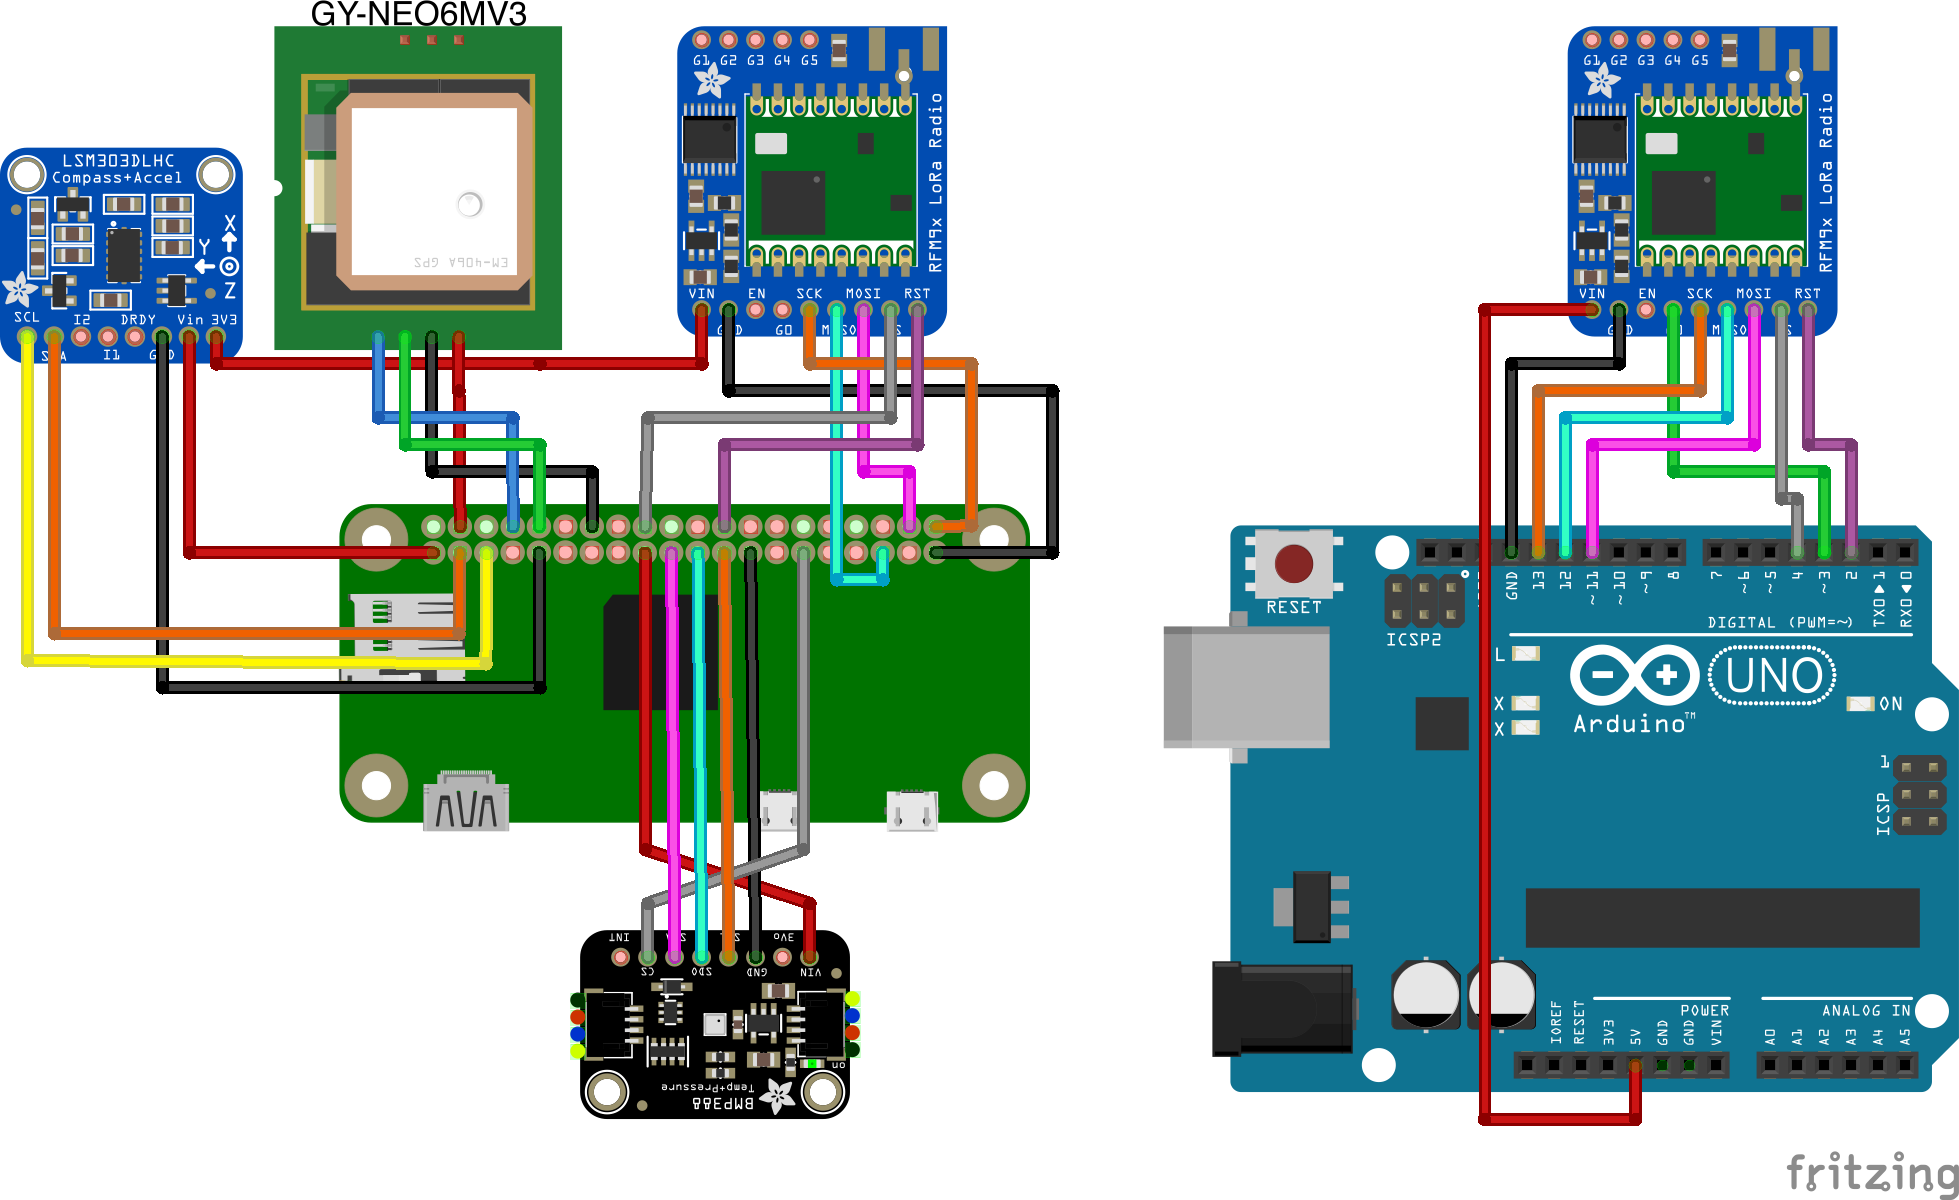
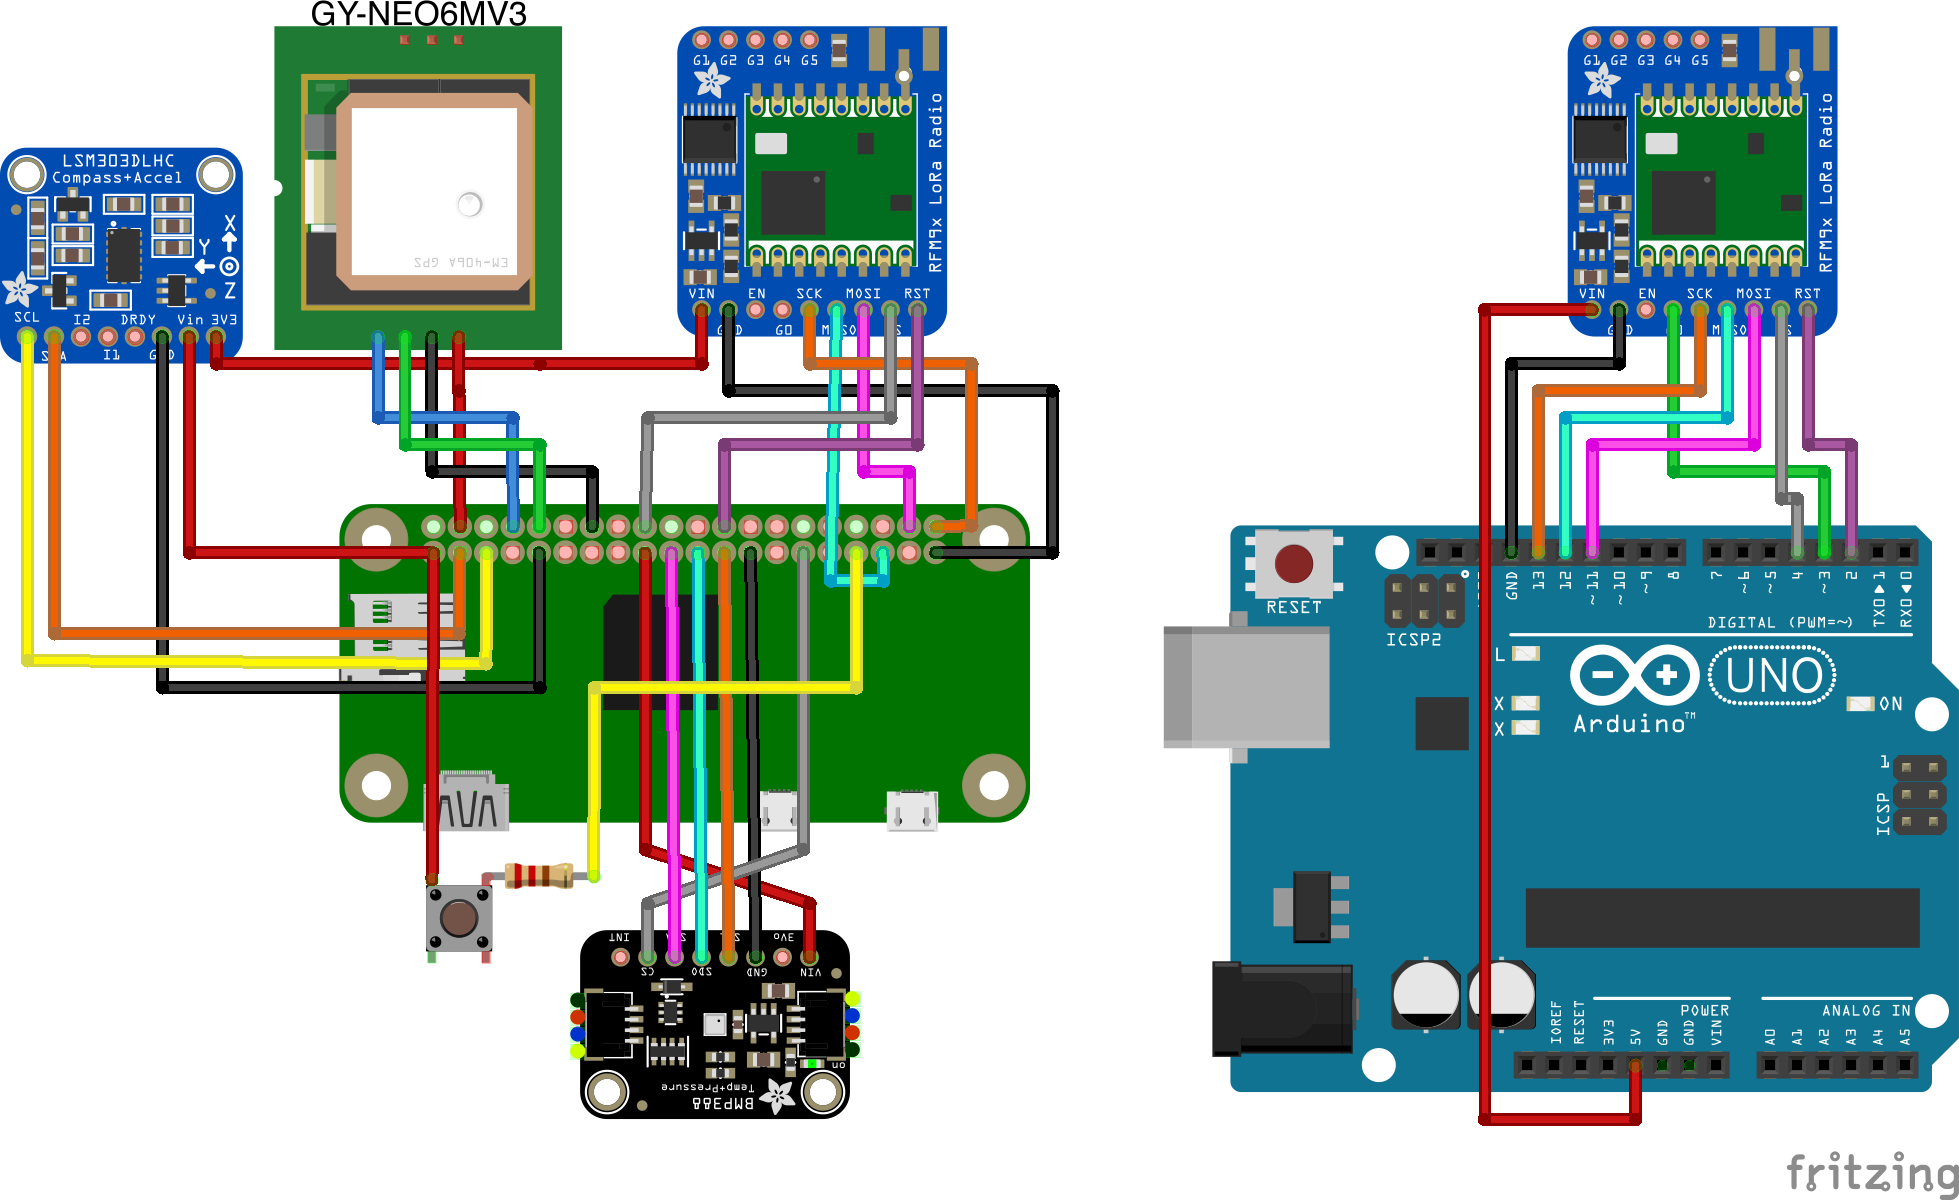
added switch

Changed region(s): [[0.218, 0.37, 0.4671, 0.8017], [0.4048, 0.3083, 0.4359, 0.3392]]

diff --git a/Readme.md b/Readme.md
@@ -66,10 +66,13 @@ The air hardware is wired to the following Raspberry Pi pins:
   * GND -> Pi GND
   * TX -> Pi RX
   * RX -> Pi TX
+* **Momentary, Normally Open Switch**
+  * In -> Pi 3V
+  * Out -> Resistor -> Pi D16
 
 The ground hardware, much more simply, is wired to the following Arduino pins:
 
-* **RFM95W (SPI 1)**
+* **RFM95W**
   * VIN -> Arduino 5v
   * GND -> Arduino GND
   * G0 -> Arduino 13
